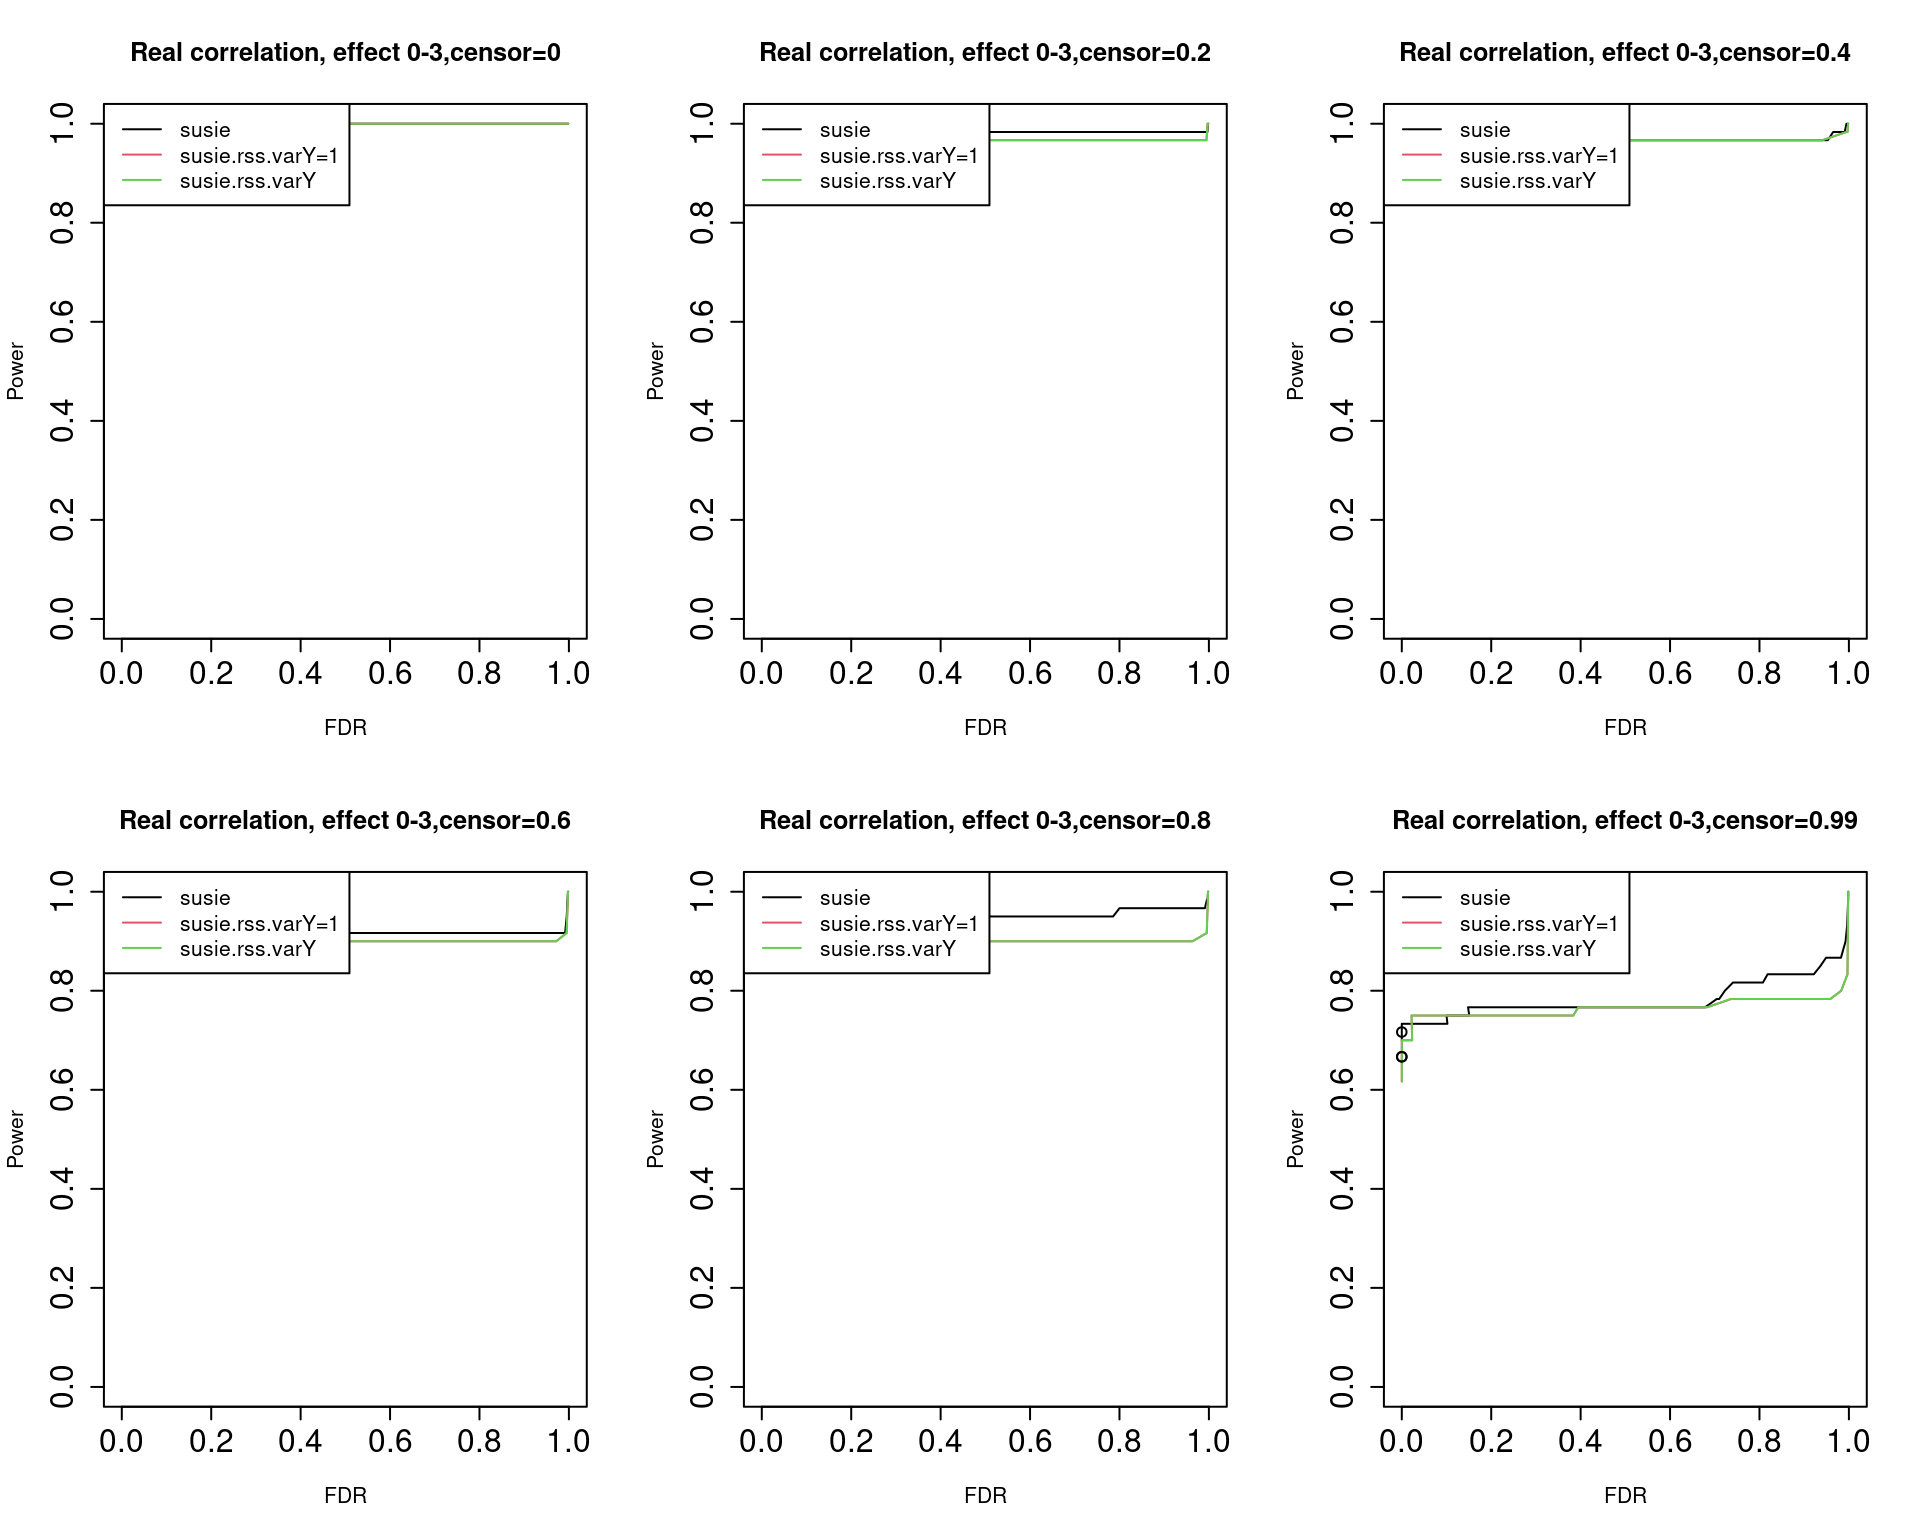
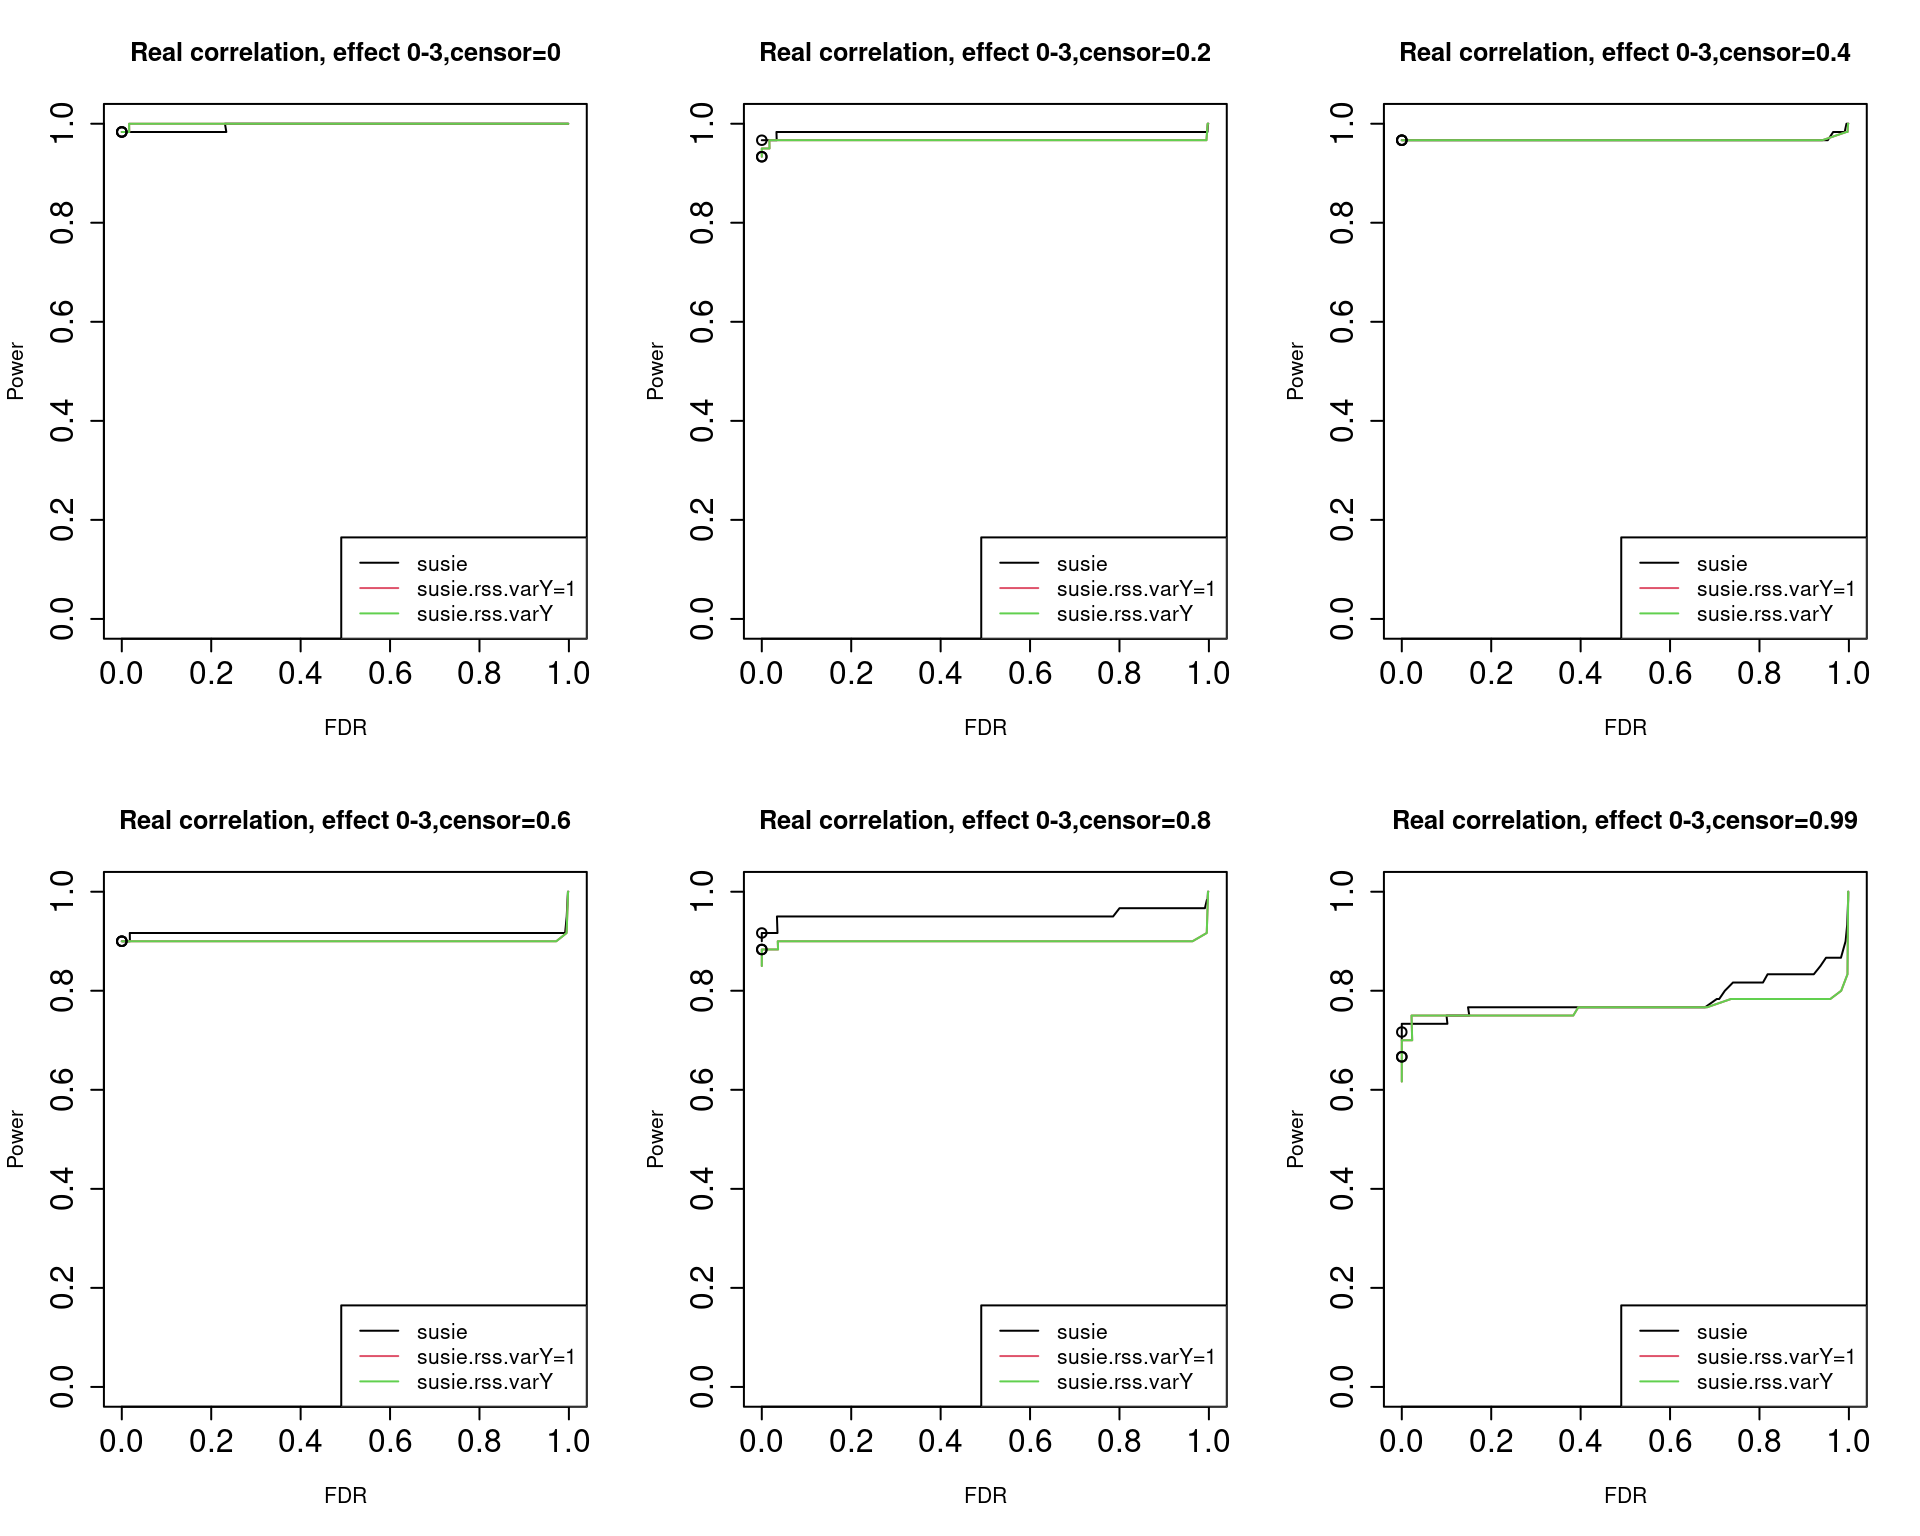
Build site.

diff --git a/docs/susierss_large_sample.html b/docs/susierss_large_sample.html
@@ -524,15 +524,15 @@ project makes it easier to run your code on other machines.</p>
 <div class="panel panel-default">
 <div class="panel-heading">
 <p class="panel-title">
-<a data-toggle="collapse" data-parent="#workflowr-checks" href="#strongRepositoryversionstrongahrefhttpsgithubcomyunqiyang0215survivalsusietree86b0a55f281c7dad1f5a71398e88c67d195ab8e0targetblank86b0a55a">
+<a data-toggle="collapse" data-parent="#workflowr-checks" href="#strongRepositoryversionstrongahrefhttpsgithubcomyunqiyang0215survivalsusietreeae01e42473182b2c4d4b16755acfee51cf67e5e2targetblankae01e42a">
 <span class="glyphicon glyphicon-ok text-success"
 aria-hidden="true"></span> <strong>Repository version:</strong>
-<a href="https://github.com/yunqiyang0215/survival-susie/tree/86b0a55f281c7dad1f5a71398e88c67d195ab8e0" target="_blank">86b0a55</a>
+<a href="https://github.com/yunqiyang0215/survival-susie/tree/ae01e42473182b2c4d4b16755acfee51cf67e5e2" target="_blank">ae01e42</a>
 </a>
 </p>
 </div>
 <div
[2 lines of base64/hex data omitted]
 class="panel-collapse collapse">
 <div class="panel-body">
 <p>
@@ -542,7 +542,7 @@ reproducibility.
 </p>
 <p>
 The results in this page were generated with repository version
-<a href="https://github.com/yunqiyang0215/survival-susie/tree/86b0a55f281c7dad1f5a71398e88c67d195ab8e0" target="_blank">86b0a55</a>.
+<a href="https://github.com/yunqiyang0215/survival-susie/tree/ae01e42473182b2c4d4b16755acfee51cf67e5e2" target="_blank">ae01e42</a>.
 See the <em>Past versions</em> tab to see a history of the changes made
 to the R Markdown and HTML files.
 </p>
@@ -558,7 +558,6 @@ were generated:
 <pre><code>
 Ignored files:
     Ignored:    .Rproj.user/
-    Ignored:    analysis/figure/
 
 Untracked files:
     Untracked:  analysis/dat_analysis_cancer_subtype.Rmd
@@ -610,6 +609,40 @@ Message
 </tr>
 </thead>
 <tbody>
+<tr>
+<td>
+Rmd
+</td>
+<td>
+<a href="https://github.com/yunqiyang0215/survival-susie/blob/ae01e42473182b2c4d4b16755acfee51cf67e5e2/analysis/susierss_large_sample.Rmd" target="_blank">ae01e42</a>
+</td>
+<td>
+yunqi yang
+</td>
+<td>
+2024-01-30
+</td>
+<td>
+wflow_publish("analysis/susierss_large_sample.Rmd")
+</td>
+</tr>
+<tr>
+<td>
+html
+</td>
+<td>
+<a href="https://rawcdn.githack.com/yunqiyang0215/survival-susie/e837b1b0b9f5c247bbf270170065c5d922642d65/docs/susierss_large_sample.html" target="_blank">e837b1b</a>
+</td>
+<td>
+yunqi yang
+</td>
+<td>
+2024-01-30
+</td>
+<td>
+Build site.
+</td>
+</tr>
 <tr>
 <td>
 Rmd
@@ -883,6 +916,17 @@ Date
 <tbody>
 <tr>
 <td>
+<a href="https://github.com/yunqiyang0215/survival-susie/blob/e837b1b0b9f5c247bbf270170065c5d922642d65/docs/figure/susierss_large_sample.Rmd/unnamed-chunk-4-1.png" target="_blank">e837b1b</a>
+</td>
+<td>
+yunqi yang
+</td>
+<td>
+2024-01-30
+</td>
+</tr>
+<tr>
+<td>
 <a href="https://github.com/yunqiyang0215/survival-susie/blob/e6f9c762129774596d8fcc3521ba703ff42280f3/docs/figure/susierss_large_sample.Rmd/unnamed-chunk-4-1.png" target="_blank">e6f9c76</a>
 </td>
 <td>
@@ -925,7 +969,7 @@ for (i in 1:length(censor_lvl)){
   points(res.rss[t95,2], res.rss[t95, 1])
   points(res.rss.varY[t95,2], res.rss.varY[t95, 1])
   
-  legend(&quot;topleft&quot;, legend = c(&quot;susie&quot;, &quot;susie.rss.varY=1&quot;, &quot;susie.rss.varY&quot;), col = c(1,2,3), lty = 1)
+  legend(&quot;bottomright&quot;, legend = c(&quot;susie&quot;, &quot;susie.rss.varY=1&quot;, &quot;susie.rss.varY&quot;), col = c(1,2,3), lty = 1)
   
 }</code></pre>
 <p><img src="figure/susierss_large_sample.Rmd/unnamed-chunk-5-1.png" width="1152" style="display: block; margin: auto;" /></p>
@@ -951,6 +995,17 @@ Date
 </tr>
 </thead>
 <tbody>
+<tr>
+<td>
+<a href="https://github.com/yunqiyang0215/survival-susie/blob/e837b1b0b9f5c247bbf270170065c5d922642d65/docs/figure/susierss_large_sample.Rmd/unnamed-chunk-5-1.png" target="_blank">e837b1b</a>
+</td>
+<td>
+yunqi yang
+</td>
+<td>
+2024-01-30
+</td>
+</tr>
 <tr>
 <td>
 <a href="https://github.com/yunqiyang0215/survival-susie/blob/e6f9c762129774596d8fcc3521ba703ff42280f3/docs/figure/susierss_large_sample.Rmd/unnamed-chunk-5-1.png" target="_blank">e6f9c76</a>
@@ -995,9 +1050,46 @@ for (i in 1:length(censor_lvl)){
   points(res.rss[t95,2], res.rss[t95, 1])
   points(res.rss.varY[t95,2], res.rss.varY[t95, 1])
   
-  legend(&quot;topleft&quot;, legend = c(&quot;susie&quot;, &quot;susie.rss.varY=1&quot;, &quot;susie.rss.varY&quot;), col = c(1,2,3), lty = 1)
+  legend(&quot;bottomright&quot;, legend = c(&quot;susie&quot;, &quot;susie.rss.varY=1&quot;, &quot;susie.rss.varY&quot;), col = c(1,2,3), lty = 1)
 }</code></pre>
 <p><img src="figure/susierss_large_sample.Rmd/unnamed-chunk-6-1.png" width="960" style="display: block; margin: auto;" /></p>
+<p>
+<button type="button" class="btn btn-default btn-xs btn-workflowr btn-workflowr-fig" data-toggle="collapse" data-target="#fig-unnamed-chunk-6-1">
+Past versions of unnamed-chunk-6-1.png
+</button>
+</p>
+<div id="fig-unnamed-chunk-6-1" class="collapse">
+<div class="table-responsive">
+<table class="table table-condensed table-hover">
+<thead>
+<tr>
+<th>
+Version
+</th>
+<th>
+Author
+</th>
+<th>
+Date
+</th>
+</tr>
+</thead>
+<tbody>
+<tr>
+<td>
+<a href="https://github.com/yunqiyang0215/survival-susie/blob/e837b1b0b9f5c247bbf270170065c5d922642d65/docs/figure/susierss_large_sample.Rmd/unnamed-chunk-6-1.png" target="_blank">e837b1b</a>
+</td>
+<td>
+yunqi yang
+</td>
+<td>
+2024-01-30
+</td>
+</tr>
+</tbody>
+</table>
+</div>
+</div>
 <p>The dots indicate PIP threshold = 0.95.</p>
 </div>
 <div id="assess-susie-cs" class="section level3">
